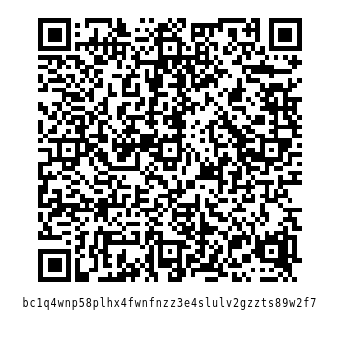
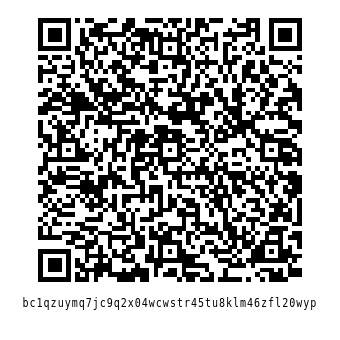
fix #5 QR code bitcoin change

Changed region(s): [[0.0882, 0.0294, 0.9412, 0.9118], [0.1471, 0.8529, 0.5588, 0.9118], [0.5882, 0.8529, 0.6176, 0.9118]]

diff --git a/README.md b/README.md
@@ -10,9 +10,9 @@ If you would like to use bitcoins to support us, you can transfer coins to these
 
 **Note**: You must send a message signed with address of the bitcoin wallet from which the payment was made.
 
-![support](https://user-images.githubusercontent.com/12465465/101282118-25222d00-37e4-11eb-9ffb-4ebd6a3a0bc7.png)
+<p align="center"><img src="src/Library/src/res/qr.png" alt="qrcode"></p>
 
-bitcoin:bc1q4wnp58plhx4fwnfnzz3e4slulv2gzzts89w2f7
+bitcoin: bc1qzuymq7jc9q2x04wcwstr45tu8klm46zfl20wyp
 
 ## Our patrons list:
 
